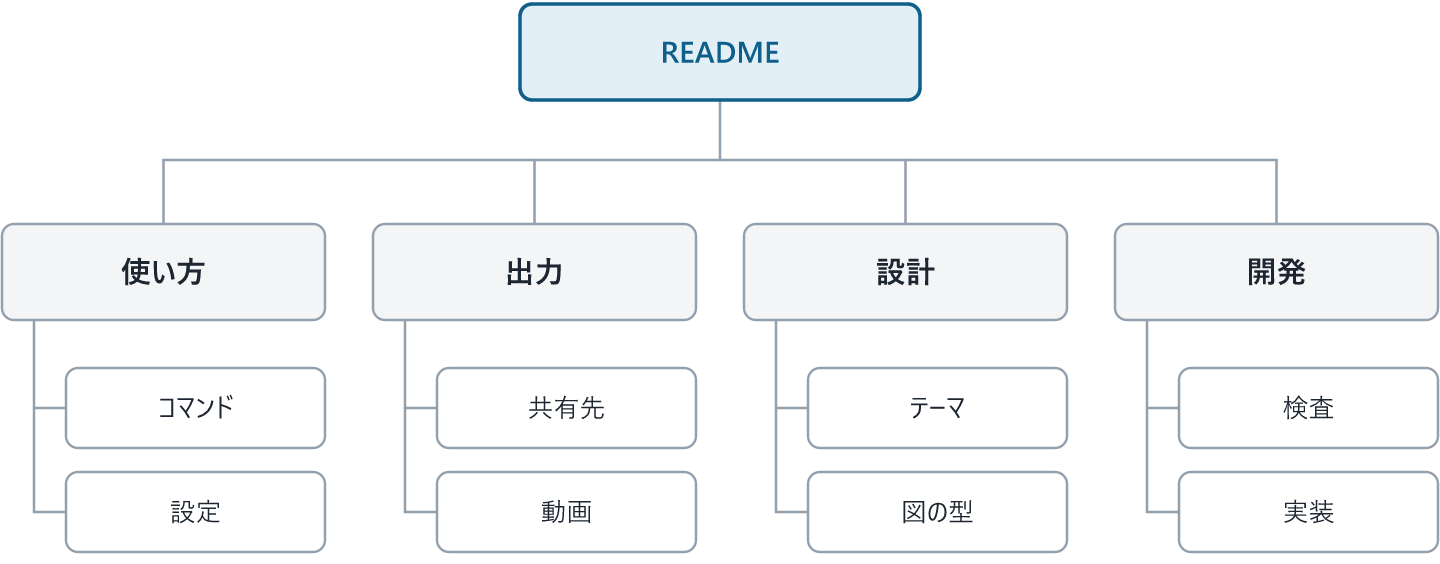
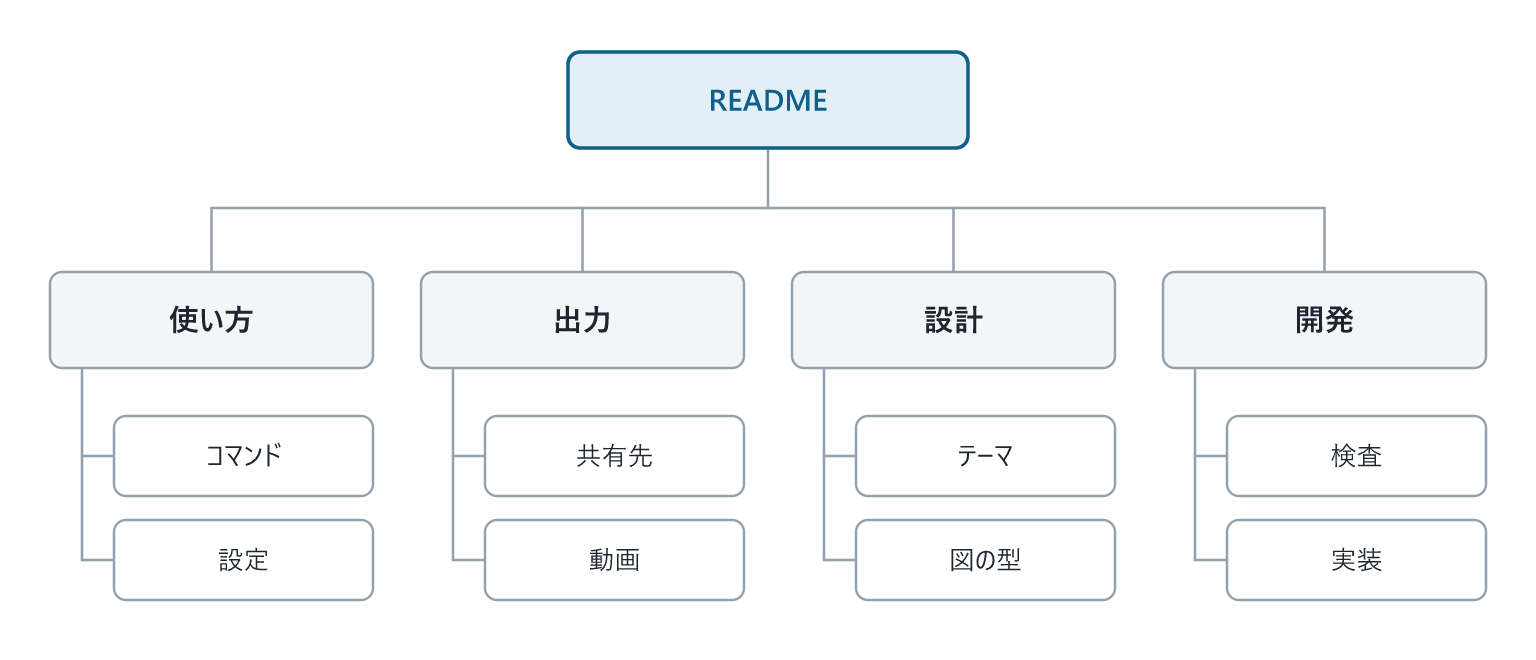
図の四辺に余白を付け、READMEの図と説明を更新

diff --git a/tests/figure-margin.test.ts b/tests/figure-margin.test.ts
@@ -1,0 +1,130 @@
+// 図の座標を保ち、HTML と PNG の四辺に紙の色の余白が付くことを確かめる。
+import { test } from 'node:test';
+import assert from 'node:assert/strict';
+import fs from 'node:fs';
+import os from 'node:os';
+import path from 'node:path';
+import { fileURLToPath } from 'node:url';
+import { parse as yaml } from 'yaml';
+import { Resvg } from '@resvg/resvg-js';
+import type { RenderedImage } from '@resvg/resvg-js';
+import { types } from '../src/figures/index.ts';
+import { baseTokens, readTheme } from '../src/theme.ts';
+import { typesFor } from '../src/figures/custom.ts';
+import { render, renderConfluence } from '../src/render.ts';
+import { pngFont, toPng } from '../src/png.ts';
+import { lint } from '../src/lint/index.ts';
+import type { Tokens } from '../src/types.ts';
+
+const raster = (svg: string) => new Resvg(svg, { fitTo: { mode: 'zoom', value: 2 }, font: { loadSystemFonts: true, defaultFontFamily: pngFont() } }).render();
+// ECharts の図・CSS・クリップ領域の通し番号を、出現順にそろえる。参照する名前の対応は保つ。
+const stable = (svg: string) => {
+  const ids = new Map<string, number>();
+  return svg.replace(/\bzr\d+-[\w-]+/g, (id) => `chart-${ids.get(id) ?? ids.set(id, ids.size).get(id)}`);
+};
+
+function checkMargin(image: RenderedImage, t: Tokens) {
+  const rgba = Buffer.from([...t.color.paper.slice(1).match(/../g)!.map((n) => parseInt(n, 16)), 255]);
+  const row = Buffer.alloc(image.width * 4);
+  for (let x = 0; x < image.width; x++) rgba.copy(row, x * 4);
+  const pixels = image.pixels;
+  // 枠線が座標の端を少し越えるので、その分を除いた余白が四辺で空いているかを見る。
+  const border = Math.floor(t.figure.margin * 2) - 4;
+  for (let y = 0; y < image.height; y++) {
+    const actual = pixels.subarray(y * row.length, (y + 1) * row.length);
+    if (y < border || y >= image.height - border) assert.deepEqual(actual, row, `y=${y}`);
+    else {
+      assert.deepEqual(actual.subarray(0, border * 4), row.subarray(0, border * 4), `left y=${y}`);
+      assert.deepEqual(actual.subarray(-border * 4), row.subarray(-border * 4), `right y=${y}`);
+    }
+  }
+}
+
+test('組み込みの全24型は、図の座標を変えずに紙の色の余白を付ける', () => {
+  const t = baseTokens();
+  // PNG の既定の白で隠れないよう、紙の色を変え、透明な余白も検出する。
+  t.color.paper = '#e9f1f7';
+  const ctx = { baseDir: fileURLToPath(new URL('../corpus/good/', import.meta.url)) };
+  for (const type of Object.values(types)) {
+    const spec = type.name === 'screenshot'
+      ? { type: 'screenshot', image: 'shots/login.png', marks: [{ selector: '.alert', note: '残り時間を表示します。' }] }
+      : type.fence === 'svg figure' ? { type: 'free', svg: type.example } : yaml(type.example);
+    const svg = type.render(spec, t, ctx);
+    const padded = raster(svg);
+    const originalSvg = type.render(spec, { ...t, figure: { ...t.figure, margin: 0 } }, ctx);
+    // 表示範囲と背景を除き、座標・文字・線・箱は同じ。ECharts の図の通し番号だけは描くたびに変わる。
+    const content = (s: string) => stable(s.replace(/^<svg\b[^>]*>/, '').replace(/^<rect class="zk-background"[^>]*\/>/, ''));
+    assert.equal(content(svg), content(originalSvg), type.name);
+    const original = raster(originalSvg);
+    const offset = t.figure.margin * 2;
+    assert.equal(padded.width, original.width + offset * 2, type.name);
+    assert.equal(padded.height, original.height + offset * 2, type.name);
+    checkMargin(padded, t);
+    const a = padded.pixels;
+    const b = original.pixels;
+    let difference = 0;
+    let channels = 0;
+    // 以前の表示範囲の端では切れていた枠線が見えるようになるので、端の2pxは比較から外す。
+    for (let y = 2; y < original.height - 2; y++) {
+      const start = ((y + offset) * padded.width + offset) * 4;
+      // 表示範囲の原点が変わると、回転した文字や曲線のアンチエイリアスに端数の差が出る。
+      for (let x = 8; x < (original.width - 2) * 4; x++) {
+        difference += Math.abs(a[start + x] - b[y * original.width * 4 + x]);
+        channels++;
+      }
+    }
+    assert.ok(difference / channels < 0.05, `${type.name}: 平均の色の差 ${difference / channels}`);
+    // PNG への変換でも SVG の背景色を使い、別の背景指定で余白の色が変わらない。
+    assert.deepEqual(toPng(svg, '#ff00ff').data, padded.asPng(), type.name);
+  }
+});
+
+const playwright: typeof import('playwright-core') | null = await import('playwright' as string).catch(() => null);
+test('動画では背景を部品に数えず、箱と矢印だけを動かす', { skip: !playwright && 'Playwright がありません' }, async (ctx) => {
+  const { scenesOf, timeline, estimateVoice } = await import('../src/video/script.ts');
+  const { pageHtml } = await import('../src/video/encode.ts');
+  const { readJson } = await import('../src/lint/index.ts');
+  const browser = await playwright!.chromium.launch();
+  ctx.after(() => browser.close());
+  const file = fileURLToPath(new URL('../corpus/good/login.md', import.meta.url));
+  const source = '# 題名\n\n導入です。\n\n## 節\n\n主張です。\n\n```yaml figure\ntype: flow\nsteps:\n  - label: 入口\n  - label: 出口\n```\n\n説明です。\n';
+  const scenes = scenesOf(source, file);
+  const plan = { ...timeline(scenes, scenes.map((s) => estimateVoice(s.lines))), width: 1920, height: 1080, fps: 30, limits: readJson('contract/limits.json').video };
+  const page = await browser.newPage();
+  await page.setContent(pageHtml(plan, baseTokens()));
+  const result = await page.evaluate(() => {
+    (window as unknown as { zkInit(): unknown }).zkInit();
+    const svg = document.querySelector('.zk-fig svg')!;
+    const background = svg.querySelector('.zk-background')!;
+    return { backgroundPart: background.hasAttribute('data-part'), animations: background.getAnimations().length, parts: svg.querySelectorAll('[data-part]').length };
+  });
+  assert.deepEqual(result, { backgroundPart: false, animations: 0, parts: 3 });
+});
+
+test('HTML と Confluence は、自由図・チャート・テーマ独自の型に同じ余白を付ける', async (ctx) => {
+  const dir = fs.mkdtempSync(path.join(os.tmpdir(), 'zukai-margin-'));
+  ctx.after(() => fs.rmSync(dir, { recursive: true, force: true }));
+  const themeDir = path.join(dir, 'theme');
+  const typeDir = path.join(themeDir, 'types', 'sample');
+  fs.mkdirSync(typeDir, { recursive: true });
+  fs.writeFileSync(path.join(dir, 'zukai.config.json'), JSON.stringify({ theme: 'theme' }));
+  fs.writeFileSync(path.join(themeDir, 'tokens.json'), JSON.stringify({ color: { paper: '#141f4f' }, figure: { margin: 32 } }));
+  const free = '<svg viewBox="0 0 720 100"><title>例</title><rect x="0" y="0" width="720" height="100" fill="#0f5f8a"/><text class="zk-text" x="360" y="55" text-anchor="middle">例</text></svg>';
+  fs.writeFileSync(path.join(typeDir, 'type.json'), JSON.stringify({ summary: '例を描く', when: '例を示す', fields: { label: { type: 'string', required: true, max: 8 } }, example: { label: '例' } }));
+  fs.writeFileSync(path.join(typeDir, 'figure.svg'), free.replace('>例</text>', '>{{label}}</text>'));
+  const theme = readTheme(themeDir);
+  const custom = typesFor(theme).sample;
+  checkMargin(raster(custom.render({ type: 'sample', label: '例' }, theme.tokens)), theme.tokens);
+  const figures = [`svg figure\n${free}`, `yaml figure\n${types.bar.example}`, 'yaml figure\ntype: sample\nlabel: 例'];
+  const source = '# 題名\n\n導入です。\n\n' + figures.map((f, i) => `## 節${i + 1}\n\n主張です。\n\n\`\`\`${f}\n\`\`\`\n\n説明です。\n`).join('\n');
+  const file = path.join(dir, 'a.md');
+  assert.ok((await lint(source, file, { textlint: false })).ok);
+  const html = await render(source, file);
+  const page = await renderConfluence(source, file);
+  const svgs = [...html.matchAll(/<figure>([\s\S]*?)<\/figure>/g)].map((m) => m[1]);
+  assert.equal(svgs.length, 3);
+  // ECharts は描くたびに図の番号が変わるので、番号を外して比べる。
+  assert.deepEqual(svgs.map(stable), page.figures.map((f) => stable(f.svg)));
+  for (const svg of svgs) checkMargin(raster(svg), theme.tokens);
+  assert.equal(page.background, '#141f4f');
+});

diff --git a/src/figures/chart.ts b/src/figures/chart.ts
@@ -1,7 +1,7 @@
 // チャートの型が共有する部品。描画は ECharts に任せ、配色と線の太さは contract/tokens.json から渡す。
 import { createRequire } from 'node:module';
 import type * as Echarts from 'echarts';
-import { gradientVector } from './svg.ts';
+import { frame, gradientVector } from './svg.ts';
 import { mix, seriesColor, textOn } from '../color.ts';
 import type { Tokens } from '../types.ts';
 
@@ -29,8 +29,8 @@ export function renderChart(option: ChartOption, t: Tokens, height: number, titl
   // グラデーションの色からは、ECharts が重ねたときの色を作れず、壊れた CSS（fill:[object Object]）を出すため。
   const svg = chart.renderToSVGString().replace(/\.[\w-]+:hover \{[^}]*\}\n?/g, '');
   chart.dispose();
-  // 幅に合わせて伸縮するよう、固定の幅と高さを外す。viewBox は ECharts が付けている。
-  return svg.replace(/<svg ([^>]*?)width="[\d.]+" height="[\d.]+"/, `<svg $1width="100%" role="img" aria-label="${title.replace(/"/g, '&quot;')}"`);
+  // ECharts の座標を保ち、他の図と同じ余白と背景を付ける。
+  return svg.replace(/<svg\b[^>]*>/, () => frame(t, height, title));
 }
 
 // 描画せずに、各要素が置かれる位置と大きさだけを調べる。文字が収まるかの検査に使う。

diff --git a/src/figures/svg.ts b/src/figures/svg.ts
@@ -56,11 +56,19 @@ function emphasisCss(t: Tokens): string[] {
   return [`.zk-box-em{${box}}`, `.zk-on-em{fill:${on}}`, `.zk-on-em-note{fill:${onNote}}`];
 }
 
+// 描画の座標はそのままに、表示範囲を四辺へ広げる。HTML と PNG に同じ余白と紙の色を付ける。
+export function frame(t: Tokens, height: number, title: string): string {
+  const { width, margin } = t.figure;
+  const w = width + margin * 2;
+  const h = height + margin * 2;
+  return `<svg xmlns="http://www.w3.org/2000/svg" viewBox="${-margin} ${-margin} ${w} ${h}" width="100%" role="img" aria-label="${esc(title)}"><rect class="zk-background" x="${-margin}" y="${-margin}" width="${w}" height="${h}" fill="${t.color.paper}"/>`;
+}
+
 export function open(t: Tokens, height: number, title: string): string {
   const c = t.color;
   const f = t.figure;
   return [
-    `<svg xmlns="http://www.w3.org/2000/svg" viewBox="0 0 ${f.width} ${height}" width="100%" role="img" aria-label="${esc(title)}">`,
+    frame(t, height, title),
     '<style>',
     `.zk-text{font-family:${t.font.replace(/"/g, "'")};fill:${c.ink};font-size:${t.size.label}px;font-weight:600}`,
     `.zk-note{font-family:${t.font.replace(/"/g, "'")};fill:${c.sub};font-size:${t.size.note}px}`,

diff --git a/src/video/runtime.browser.js b/src/video/runtime.browser.js
@@ -187,7 +187,7 @@
     const parts = [];
     for (const ch of /** @type {SVGElement[]} */ ([...svg.children])) {
       const tag = ch.tagName.toLowerCase();
-      if (['style', 'defs', 'title'].includes(tag)) continue;
+      if (['style', 'defs', 'title'].includes(tag) || ch.classList.contains('zk-background')) continue;
       if (tag === 'text' && parts.length && /** @type {FigurePart} */ (parts.at(-1)).kind === 'draw') {
         /** @type {FigurePart} */ (parts.at(-1)).extra.push(ch);
         /** @type {FigurePart} */ (parts.at(-1)).label ??= ch.textContent;

diff --git a/README.md b/README.md
@@ -1,70 +1,97 @@
 # zukai
 
-zukai は、図が主役の日本語資料を AI に書かせ、AI を使わない Lint で検査するハーネスです。対象は、設計書や社内説明資料のような縦長のドキュメントです。
+zukai は、AI が書いた原稿から、図を中心にした日本語の資料を作るツールです。システムの設計書や社内の説明資料など、ブラウザで縦に読んでいくドキュメントを作れます。
+
+AI に文章と図の内容を Markdown で書いてもらい、zukai で検査して HTML に変換します。作った資料は、HTML ファイルで渡したり、Confluence のページとして共有したりできます。
 
 ## 仕組み
 
-AI は Markdown の原稿だけを書きます。Lint は原稿の構造、図の仕様、文章を検査します。合格した原稿を、テンプレートが HTML に変換します。
+資料は、原稿を書いて検査し、HTML に変換するという順で作ります。
+
+1. AI が、見出し・文章・図の内容を Markdown の原稿に書く。図には、種類や箱の名前、要素どうしの関係を指定する。
+2. `zukai lint` が、原稿の構成、図の項目数や文字の収まり、文章の書き方を検査する。検査に AI は使わない。
+3. 検査で見つかった問題を直し、`zukai build` で HTML を作る。zukai が原稿の指定をもとに図を描き、本文と一緒に配置する。
 
 ![原稿を書き、Lint で検査し、HTML に変換する](docs/images/pipeline.png)
 
-上限と図の型は、指示と検査の両方に使います。組み込みの型は 24 種類で、テーマに独自の型があれば一覧に追加されます。最初に渡す指示は型の一覧だけです。
+図には、処理の流れや条件分岐など、内容に合った「型」を選べます。たとえば、手順を順番に説明するときは `flow`、複数の登場者のやり取りを示すときは `sequence` を使います。組み込みの型は 24 種類です。色やフォントを決める「テーマ」には、独自の型も追加できます。
+
+文字数や図の要素数の上限、使う色、設定項目は「契約」として定義しています。AI に渡す指示と Lint の検査は、この定義と図の型を共通で使います。AI が書くときのルールと、zukai が検査するときのルールをそろえるためです。
 
 ![契約、図の型、Lint、指示](docs/images/parts.png)
 
-契約、テーマ、図の型、Lint、指示、評価、実績の置き場所は [docs/architecture.md](docs/architecture.md) にあります。
+AI には、最初に図の型の一覧を渡し、使う型が決まってから詳しい書き方を渡します。原稿と図の具体例は [docs/manuscript.md](docs/manuscript.md)、各部品の役割と置き場所は [docs/architecture.md](docs/architecture.md) にあります。
 
 ## 設定
 
-同じ項目は下の層が優先し、環境変数はどのファイルよりも優先します。
+設定は、どこまで共有したいかで置き場所を分けます。全プロジェクトの共通設定は「この PC」、プロジェクト内で共有する設定は「チーム」に置きます。「手元」には自分だけの変更、「本人」には API キーやトークンを保存します。
 
 ![この PC、チーム、手元、本人の順に設定が重なる](docs/images/settings.png)
 
-項目の意味と書き方は [docs/configuration.md](docs/configuration.md) にあります。
+同じ項目に複数の値があるときは、図の下側にある設定が優先されます。環境変数で指定した値は、すべての設定ファイルより優先します。
+
+たとえば、チームで資料と動画を出力する設定にしていても、手元の設定を変えれば、自分だけ資料の出力にできます。設定ファイルの場所や変更コマンドは [docs/configuration.md](docs/configuration.md) にあります。
 
 ## 共有
 
-原本は Markdown です。HTML と Confluence のページは、原稿から作ります。
+編集する原本は Markdown の原稿です。共有先に合わせて、原稿から次の形で資料を作ります。
+
+- HTML で渡す場合は、図と本文を 1 つのファイルにまとめる。原稿も HTML の中に保存するので、受け取った人が取り出して編集できる。
+- Confluence で共有する場合は、図を PNG として添付し、ページの本文から表示する。編集用の Markdown 原稿もページに添付する。
 
 ![ファイルは 1 枚の HTML、Confluence は PNG と本文](docs/images/share.png)
 
-登録の手順と、チャットの外に資料を出す仕組みは [docs/output.md](docs/output.md) にあります。
+内容を直すときは、原稿を編集して資料を作り直します。Confluence への登録手順や、AI の返答を図解の資料として表示する方法は [docs/output.md](docs/output.md) にあります。
 
 ## はじめ方
 
-zukai は npm に公開していません。リポジトリを clone し、`npm link` で `zukai` コマンドとして使います。Node.js 24 以上が必要です。
+Node.js 24 以上が必要です。zukai は npm に公開していないため、このリポジトリを取得して使います。`npm link` を実行すると、ほかのプロジェクトからも `zukai` コマンドを呼べるようになります。
 
 ![clone、npm install、npm link、zukai setup](docs/images/setup.png)
 
 ```bash
-git clone <このリポジトリ> && cd zukai
+git clone https://github.com/otomatty/zukai.git
+cd zukai
 npm install
 npm link            # zukai コマンドを使えるようにする。フォルダを動かしたら、やり直す
 
 cd /path/to/project
-zukai setup         # 質問に答えて、スキル、出力、動画、Confluence をまとめて設定する
+zukai setup         # 使う AI ツール、出力の形、共有先を質問に答えて設定する
 ```
 
-コマンドの一覧、Lint の速さ、スキルの読み込ませ方は [docs/setup.md](docs/setup.md) にあります。`zukai` を使えない環境では、`node /path/to/zukai/src/cli.ts` で同じように動きます。
+`zukai setup` は、AI に資料作成の手順を教える「スキル」も設定します。セットアップ後は、選んだ AI ツールに「ログイン処理を図で説明して」のように依頼して資料を作れます。
+
+手元に Markdown の原稿がある場合は、次のコマンドで検査し、HTML に変換できます。
+
+```bash
+zukai lint 原稿.md
+zukai build 原稿.md  # 原稿.html を書き出す
+```
+
+コマンドの一覧と詳しい設定手順は [docs/setup.md](docs/setup.md) にあります。`zukai` を使えない環境では、`node /path/to/zukai/src/cli.ts` の後ろにコマンド名と引数を書いて実行できます。
 
 ## ドキュメント
 
-README は zukai が何をするかを説明します。設計の詳細は `docs/` に分けてあります。
+使い方や設計の詳細は、`docs/` にまとめています。原稿を書きたいとき、設定を変えたいとき、実装を調べたいときは、目的に合ったページを参照してください。
 
 ![使い方、出力、設計、開発](docs/images/docs-map.png)
 
+| ファイル | わかること |
+|---|---|
+| [docs/setup.md](docs/setup.md) | インストール、初期設定、コマンドの使い方 |
+| [docs/configuration.md](docs/configuration.md) | 設定の置き場所、優先順位、変更方法 |
+| [docs/manuscript.md](docs/manuscript.md) | 原稿の書き方と、図の型の選び方 |
+| [docs/output.md](docs/output.md) | HTML や Confluence での共有と、AI の返答を資料にする方法 |
+| [docs/video.md](docs/video.md) | 図解の資料から解説動画を作る方法 |
+| [docs/theme.md](docs/theme.md) | 色やフォントの変更と、独自の図の型の追加 |
+| [docs/lint.md](docs/lint.md) | 原稿の検査ルール、用語の統一、根拠の添え方 |
+| [docs/architecture.md](docs/architecture.md) | 検査と描画を担う部品の役割、実装の置き場所 |
+| [docs/development.md](docs/development.md) | 開発環境、テスト、Claude Code のプラグインとしての使い方 |
 
-| ファイル                                           | 内容                       |
-| ---------------------------------------------- | ------------------------ |
-| [docs/architecture.md](docs/architecture.md)   | 契約、図の型、Lint、指示の置き場所      |
-| [docs/setup.md](docs/setup.md)                 | はじめ方とコマンド                |
-| [docs/configuration.md](docs/configuration.md) | 設定の置き場所と項目               |
-| [docs/output.md](docs/output.md)               | HTML、Confluence、返答を資料にする |
-| [docs/video.md](docs/video.md)                 | 解説動画                     |
-| [docs/theme.md](docs/theme.md)                 | 色、フォント、独自の型              |
-| [docs/manuscript.md](docs/manuscript.md)       | 原稿の形と図の型                 |
-| [docs/lint.md](docs/lint.md)                   | 用語、根拠、Lint               |
-| [docs/development.md](docs/development.md)     | プラグインと開発                 |
+README の図も zukai で生成しています。原稿は `docs/diagrams/overview.md`、画像は `docs/images/` にあります。画像を作り直すには、次のコマンドを実行します。
 
+```bash
+zukai build docs/diagrams/overview.md --format=confluence
+```
 
-上の図は `docs/diagrams/overview.md` から書き出したものです。`zukai build docs/diagrams/overview.md --format=confluence` は `fig-01.png` から順に、経路、役割、設定、共有先、はじめ方、ドキュメントの PNG を出します。このリポジトリでは、その 6 枚を `docs/images/` に置いています。
+`docs/diagrams/overview.confluence/` に `fig-01.png` から `fig-06.png` が出ます。順に、原稿から資料を作る流れ、部品の役割、設定、共有先、はじめ方、ドキュメントの案内です。README に反映するときは、対応する画像を `docs/images/` にコピーします。
